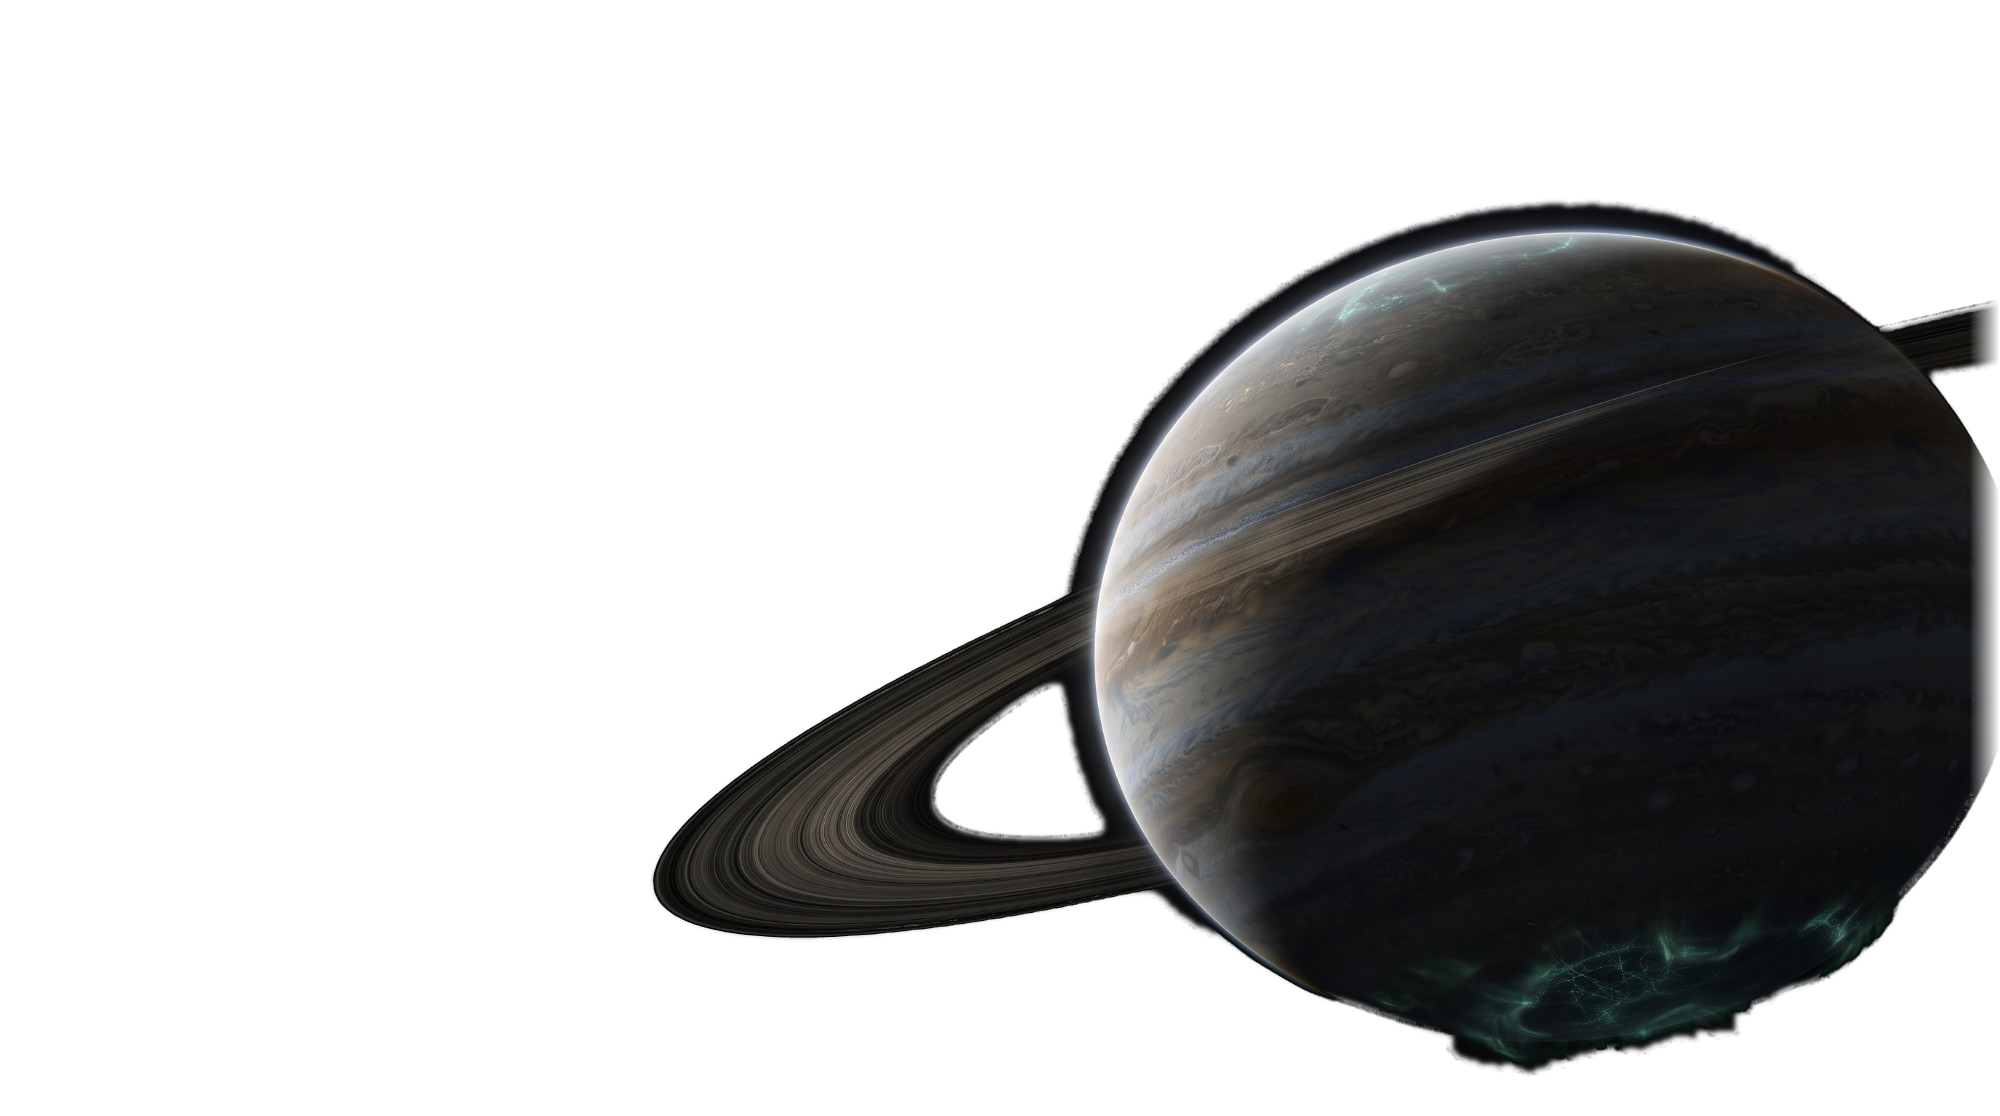
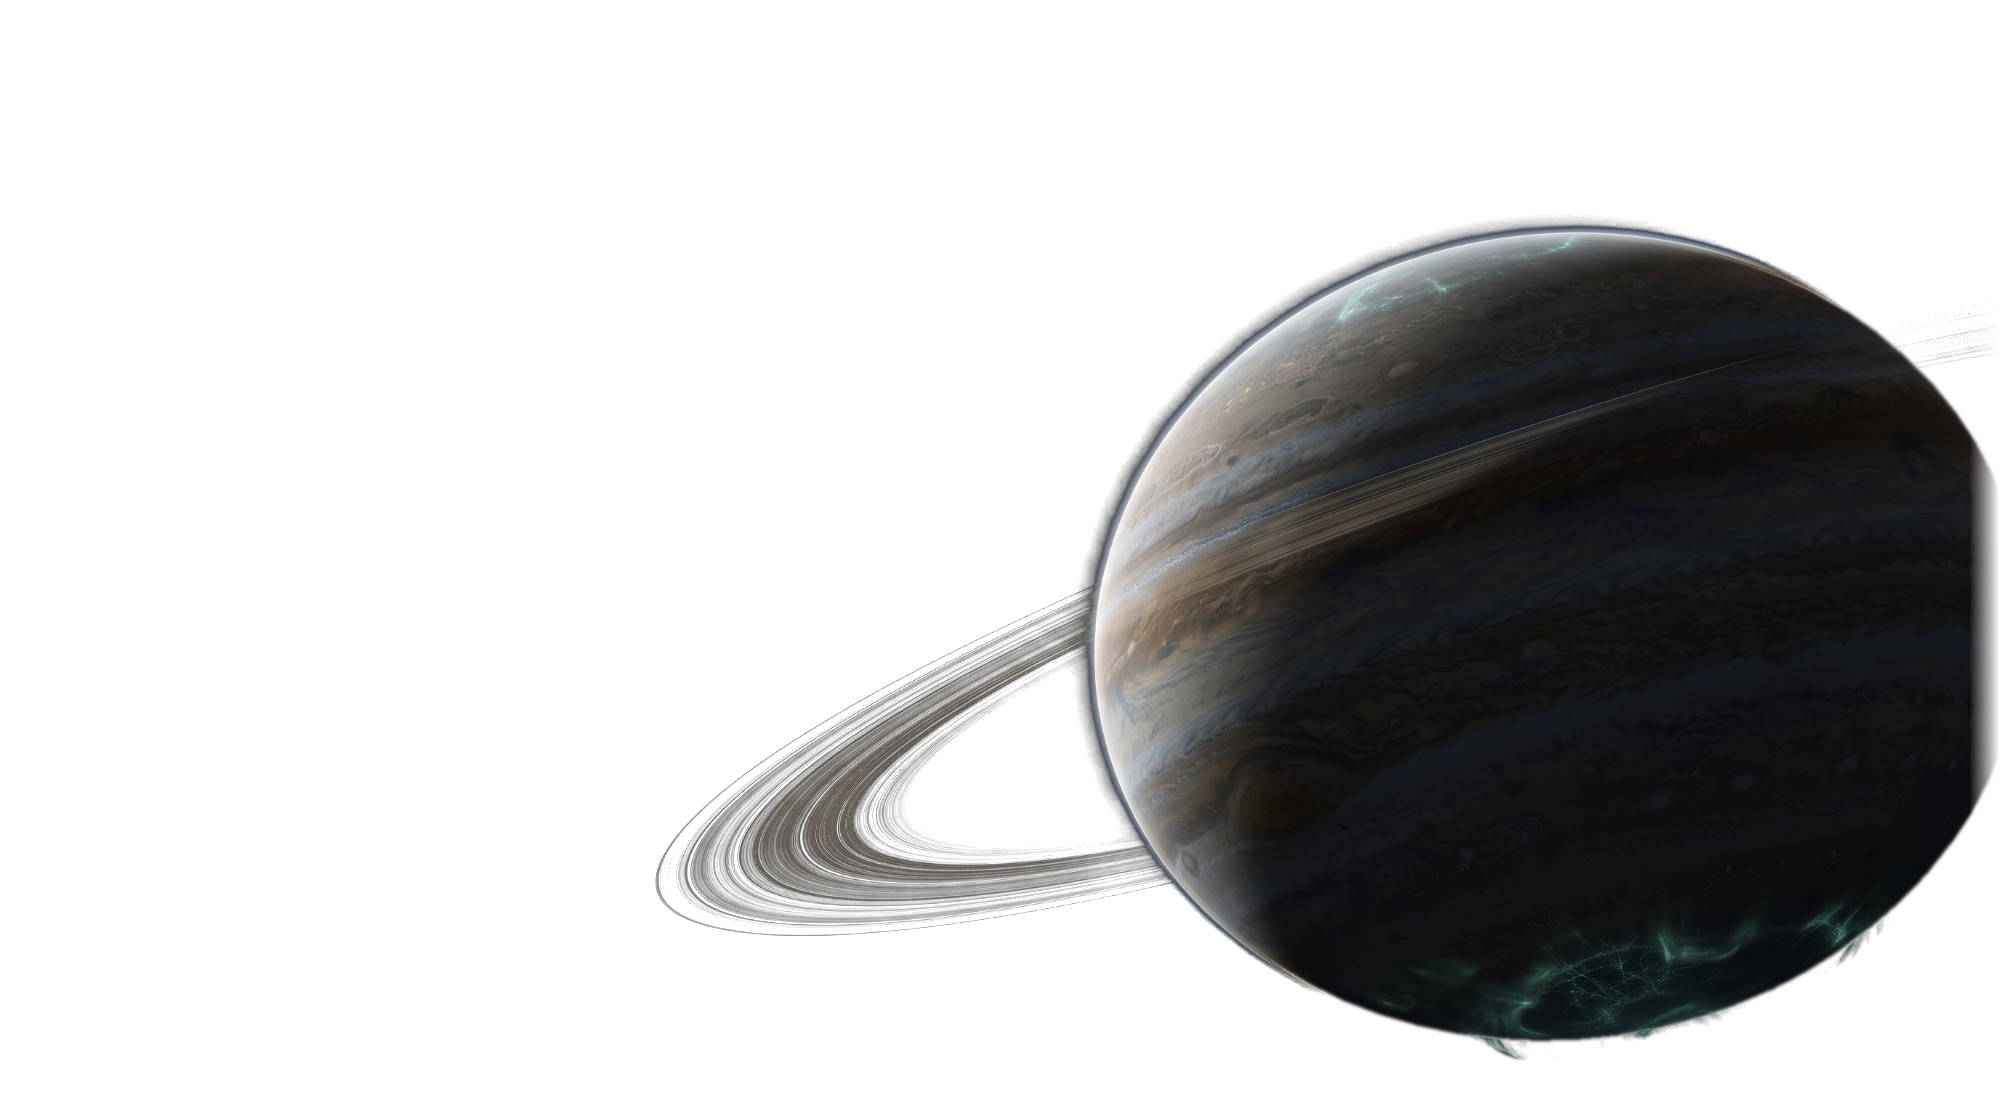
Menu: remove dark outline around planet; keep selection beacon hidden
- Planet occlusion now comes from an ellipse fitted to the lit limb, so the
  halo outside the disc only adds light; rings are semi-opaque by brightness.
- The selected-system beacon (inactive at startup, so GameObject.Find missed
  it) is reached via GalaxyView.BeaconRoot and kept off every frame in the
  menu, together with system markers and fleet route overlay; anything the
  game re-enables while in the menu is switched off again in LateUpdate.

Claude-Session: https://claude.ai/code/session_01Q4AMoXNfPqvYhtkRMSBQjk

diff --git a/Assets/Scripts/Rendering/Menu/MenuAtmosphere.cs b/Assets/Scripts/Rendering/Menu/MenuAtmosphere.cs
@@ -30,6 +30,8 @@ namespace StellarisClone.Rendering
         private readonly List<Mote> _motes = new List<Mote>();
         private RectTransform _overlay;
         private readonly List<GameObject> _hidden = new List<GameObject>();
+        private readonly HashSet<GameObject> _hiddenSet = new HashSet<GameObject>();
+        private bool _beaconWasOn;
         private float _hideTimer, _t;
 
         private static readonly Color[] Palette =
@@ -315,7 +317,7 @@ namespace StellarisClone.Rendering
 
         private void HideMapClutter()
         {
-            foreach (var name in new[] { "Hyperlanes", "TacticalHologramBeacon", "EmpireLabel_0", "EmpireLabel_1", "EmpireLabel_2", "EmpireLabel_3" })
+            foreach (var name in new[] { "Hyperlanes", "EmpireLabel_0", "EmpireLabel_1", "EmpireLabel_2", "EmpireLabel_3" })
             {
                 var go = GameObject.Find(name);
                 if (go != null) Hide(go);
@@ -327,19 +329,35 @@ namespace StellarisClone.Rendering
             foreach (var pr in FindObjectsByType<SystemProgressRing>(FindObjectsSortMode.None)) Hide(pr.gameObject);
             var fim = FindAnyObjectByType<FleetIndicatorManager>();
             if (fim != null) Hide(fim.gameObject);
+            var fro = FindAnyObjectByType<FleetRouteOverlay>();
+            if (fro != null) Hide(fro.gameObject);
+            var markers = GameObject.Find("SystemMarkers");
+            if (markers != null) Hide(markers);
         }
 
         private void Hide(GameObject go)
         {
             if (go == null || !go.activeSelf) return;
             go.SetActive(false);
-            _hidden.Add(go);
+            if (_hiddenSet.Add(go)) _hidden.Add(go);
+        }
+
+        /// <summary>Игра может снова включить спрятанное (выбор системы, обновление маркеров) — держим выключенным каждый кадр.</summary>
+        private void LateUpdate()
+        {
+            for (int i = 0; i < _hidden.Count; i++)
+                if (_hidden[i] != null && _hidden[i].activeSelf) _hidden[i].SetActive(false);
+            var beacon = GalaxyView.Instance != null ? GalaxyView.Instance.BeaconRoot : null;
+            if (beacon != null && beacon.activeSelf) { beacon.SetActive(false); _beaconWasOn = true; }
         }
 
         private void OnDestroy()
         {
             foreach (var go in _hidden) if (go != null) go.SetActive(true);
             _hidden.Clear();
+            _hiddenSet.Clear();
+            if (_beaconWasOn && GalaxyView.Instance != null && GalaxyView.Instance.BeaconRoot != null)
+                GalaxyView.Instance.BeaconRoot.SetActive(true);
             if (_nebulaMat != null) Destroy(_nebulaMat);
             if (_planet != null && _planet.material != null) Destroy(_planet.material);
             if (_meteor != null && _meteor.sprite != null) { Destroy(_meteor.sprite.texture); Destroy(_meteor.sprite); }

diff --git a/Assets/Scripts/Rendering/GalaxyView.cs b/Assets/Scripts/Rendering/GalaxyView.cs
@@ -24,6 +24,8 @@ namespace StellarisClone.Rendering
         private readonly Dictionary<int, GameObject> _empireLabels = new Dictionary<int, GameObject>();
 
         private GameObject _beaconRoot;
+        /// <summary>Маяк выбранной системы (главное меню прячет его).</summary>
+        public GameObject BeaconRoot => _beaconRoot;
         private SpriteRenderer _beaconOuterSr;
         private SpriteRenderer _beaconInnerSr;
         private LineRenderer _beaconVerticalBeam;
